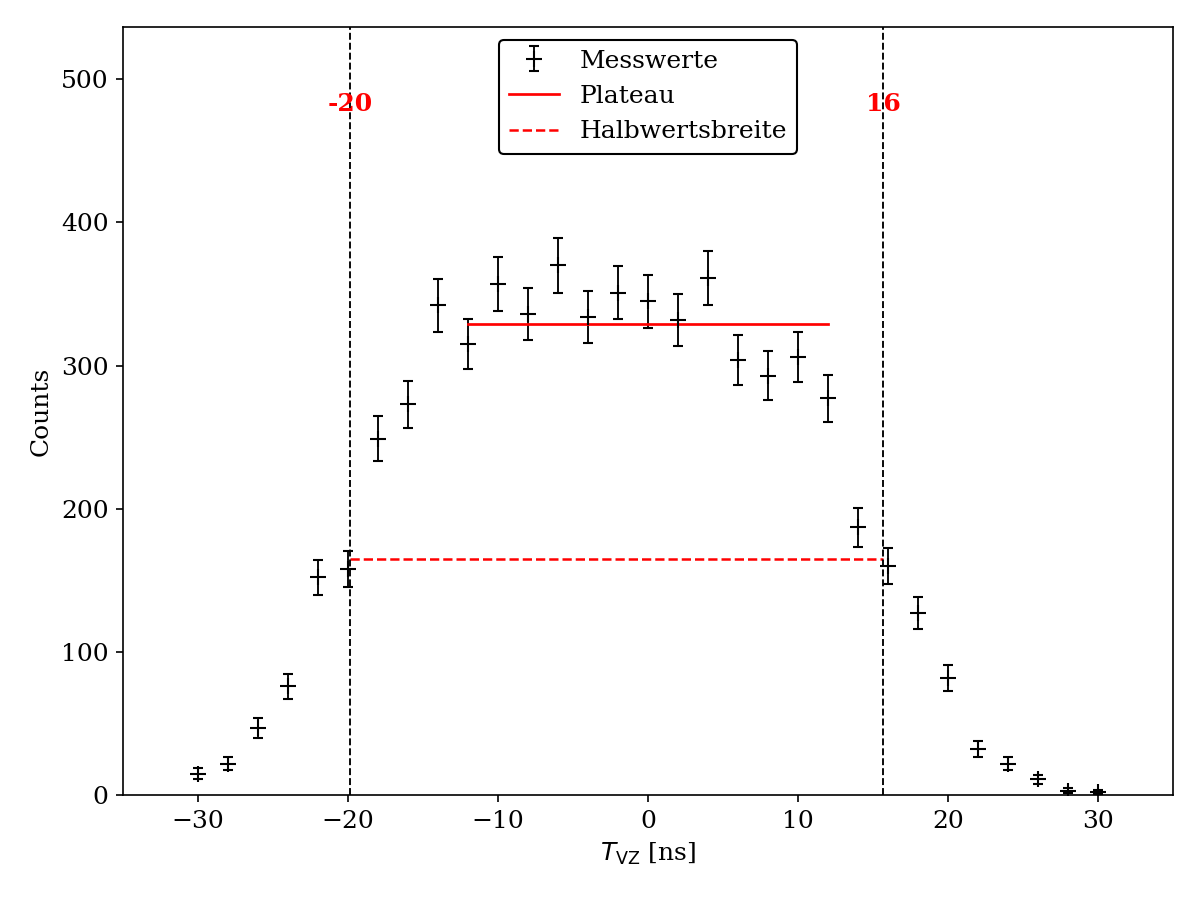
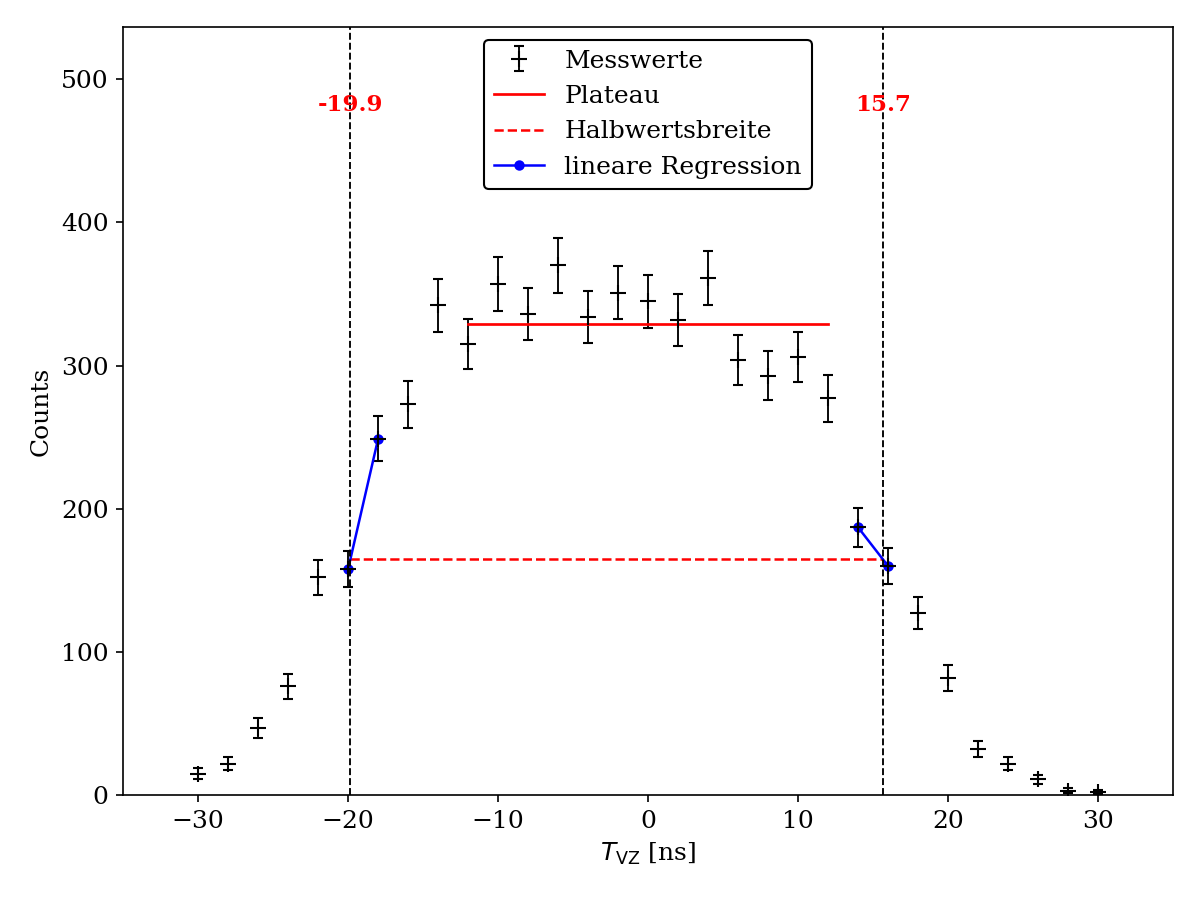
auswertung bissl

diff --git a/v01/delay.py b/v01/delay.py
@@ -4,23 +4,28 @@
 Auswertung und Plot der Verzoegerungs-Koinzidenzmessung (delay.csv).
 
 Rekonstruiert aus den Spalten "Count left" / "Count right" die symmetrische
-T_VZ-Kurve, bestimmt das Plateau (Mittelwert des flachen Bereichs) und die
-Halbwertsbreite (FWHM) ueber die Halb-Maximum-Schnittpunkte und stellt das
-Ganze im Stil der Vorlage dar.
+T_VZ-Kurve und bestimmt das Plateau (Mittelwert des flachen Bereichs).
+Die Halbwertsbreite wird ueber eine Gerade durch die ZWEI das Halb-Maximum
+einrahmenden Punkte bestimmt (einer knapp darunter, einer knapp darueber).
+Der Schnittpunkt dieser Geraden mit der Halb-Maximum-Linie liefert die linke
+bzw. rechte Flankenzeit; die Unsicherheit folgt aus den Poisson-Fehlern der
+beiden Counts.
 """
+import os
 import uncertainties.unumpy as unp
 import numpy as np
 import pandas as pd
 from scipy.optimize import curve_fit
 from addons import write, add, latex_float, tab_to_latex as tab2tex
 from scipy.stats import linregress
-from uncertainties import ufloat
+from uncertainties import ufloat, correlated_values
 from uncertainties.unumpy import nominal_values as noms, std_devs as stds
 import scipy.constants as const
 import matplotlib.pyplot as plt
 
 dir     = "content/plots/"
 dir_tab = "content/tables/"
+os.makedirs(dir, exist_ok=True)
 
 # ----------------------------------------------------------------------
 # EINSTELLUNGEN
@@ -28,7 +33,7 @@ dir_tab = "content/tables/"
 CSV_PFAD        = "raw/delay.csv"
 OUTPUT_PNG      = dir + "delay_plot.png"
 PLATEAU_FENSTER = 12      # |T_VZ| <= dieser Wert [ns] bildet das Plateau
-TAU_REF         = 20.0    # Referenzzeit fuer Delta t_K = 2*TAU_REF - FWHM  [ns]
+TAU_REF         = 20.0    # Pulsbreite; Aufloesung = |2*TAU_REF - FWHM|  [ns]
 
 
 # ----------------------------------------------------------------------
@@ -39,7 +44,6 @@ dt    = df["Delta t[ns]"].to_numpy(dtype=float)
 left  = df["Count left (in 20s)"].to_numpy(dtype=float)
 right = df["Count right (in 20s)"].to_numpy(dtype=float)
 
-# left -> negative Achse, right -> positive Achse, Delta t = 0 -> T_VZ = 0
 t_neg, c_neg = -dt[dt > 0], left[dt > 0]
 t_pos, c_pos =  dt[dt > 0], right[dt > 0]
 t_zero       = np.array([0.0])
@@ -57,40 +61,64 @@ c_err = np.sqrt(c)
 
 
 # ----------------------------------------------------------------------
-# PLATEAU UND HALBWERTSBREITE
+# PLATEAU (mit Unsicherheit)  ->  Halb-Maximum
 # ----------------------------------------------------------------------
 plateau_mask = np.abs(t) <= PLATEAU_FENSTER
 plateau      = c[plateau_mask].mean()
 plateau_err  = c[plateau_mask].std(ddof=1) / np.sqrt(plateau_mask.sum())
 plateau_u    = ufloat(plateau, plateau_err)
-half_max     = plateau / 2.0
+half_max_u   = plateau_u / 2
+half_max     = half_max_u.n
 
 
-def schnittpunkt(t_arr, c_arr, level, seite):
-    """Lineare Interpolation des Durchgangs durch 'level'."""
-    idx = np.where(t_arr < 0)[0] if seite == "links" else np.where(t_arr > 0)[0]
-    ti, ci = t_arr[idx], c_arr[idx]
+# ----------------------------------------------------------------------
+# FLANKEN: Gerade durch die zwei das Halb-Maximum einrahmenden Punkte
+# ----------------------------------------------------------------------
+def flanken_fit(seite):
+    """Gerade durch die zwei benachbarten Punkte, die half_max einrahmen.
+    Rueckgabe: (t_cross [ufloat], coeffs [m, b], t_used)."""
+    msk = (t < 0) if seite == "links" else (t > 0)
+    ti, ci = t[msk], c[msk]
     o = np.argsort(ti)
     ti, ci = ti[o], ci[o]
-    for k in range(len(ti) - 1):
-        a_, b_ = ci[k], ci[k + 1]
-        if (a_ - level) * (b_ - level) <= 0 and a_ != b_:
-            frac = (level - a_) / (b_ - a_)
-            return ti[k] + frac * (ti[k + 1] - ti[k])
-    return np.nan
+
+    # erstes benachbartes Paar, das das Halb-Maximum kreuzt
+    k = None
+    for j in range(len(ti) - 1):
+        if (ci[j] - half_max) * (ci[j + 1] - half_max) <= 0 and ci[j] != ci[j + 1]:
+            k = j
+            break
+    if k is None:
+        raise ValueError(f"Keine Flanke gefunden ({seite}): Halb-Maximum nicht gekreuzt.")
+
+    # die zwei Punkte mit Poisson-Fehler sqrt(N)
+    t_lo, t_hi = ti[k], ti[k + 1]
+    c_lo = ufloat(ci[k],     np.sqrt(ci[k]))
+    c_hi = ufloat(ci[k + 1], np.sqrt(ci[k + 1]))
+
+    # Gerade durch zwei Punkte -> Schnittpunkt mit half_max
+    m_u = (c_hi - c_lo) / (t_hi - t_lo)
+    b_u = c_lo - m_u * t_lo
+    t_cross = (half_max_u - b_u) / m_u
+
+    coeffs = [m_u.n, b_u.n]                  # nur fuers Plotten
+    return t_cross, coeffs, np.array([t_lo, t_hi])
 
 
-t_links  = schnittpunkt(t, c, half_max, "links")
-t_rechts = schnittpunkt(t, c, half_max, "rechts")
-fwhm     = t_rechts - t_links
-dt_K     = 2 * TAU_REF - fwhm
+t_links_u,  coef_l, ti_l = flanken_fit("links")
+t_rechts_u, coef_r, ti_r = flanken_fit("rechts")
+
+fwhm_u = t_rechts_u - t_links_u
+dt_K_u = 2 * TAU_REF - fwhm_u
 
 print(f"Plateau         = {plateau_u} counts")
 print(f"Halb-Maximum    = {half_max:.1f} counts")
-print(f"Schnittpunkt L  = {t_links:.2f} ns")
-print(f"Schnittpunkt R  = {t_rechts:.2f} ns")
-print(f"Halbwertsbreite = {fwhm:.2f} ns")
-print(f"Delta t_K       = 2*{TAU_REF:.0f} ns - {fwhm:.1f} ns = {dt_K:.2f} ns")
+print(f"Punkte links    = {ti_l} ns")
+print(f"Punkte rechts   = {ti_r} ns")
+print(f"Schnittpunkt L  = {t_links_u} ns")
+print(f"Schnittpunkt R  = {t_rechts_u} ns")
+print(f"Halbwertsbreite = {fwhm_u} ns")
+print(f"Aufloesungszeit = |2*{TAU_REF:.0f} - FWHM| = {abs(dt_K_u.n):.2f} +/- {dt_K_u.s:.2f} ns")
 
 
 # ----------------------------------------------------------------------
@@ -106,13 +134,20 @@ t_plat = t[plateau_mask]
 ax.plot([t_plat.min(), t_plat.max()], [plateau, plateau],
         color="red", lw=1.3, label="Plateau")
 
-ax.plot([t_links, t_rechts], [half_max, half_max],
+ax.plot([t_links_u.n, t_rechts_u.n], [half_max, half_max],
         color="red", lw=1.2, ls="--", label="Halbwertsbreite")
 
-for tc in (t_links, t_rechts):
+# Flankengeraden: nur zwischen den zwei verwendeten Punkten
+for k, (ti_, coef_) in enumerate([(ti_l, coef_l), (ti_r, coef_r)]):
+    xx = np.array([ti_[0], ti_[1]])
+    ax.plot(xx, coef_[0] * xx + coef_[1], color="blue", lw=1.2,
+            marker="o", ms=4,
+            label="lineare Regression" if k == 0 else None)
+
+for tc in (t_links_u.n, t_rechts_u.n):
     ax.axvline(tc, color="black", lw=0.9, ls="--")
-    ax.annotate(f"{tc:.0f}", xy=(tc, plateau * 1.45),
-                color="red", ha="center", fontsize=12, fontweight="bold")
+    ax.annotate(f"{tc:.1f}", xy=(tc, plateau * 1.45),
+                color="red", ha="center", fontsize=11, fontweight="bold")
 
 ax.set_xlabel(r"$T_{\mathrm{VZ}}$ [ns]")
 ax.set_ylabel("Counts")
@@ -120,7 +155,7 @@ ax.set_xlim(t.min() - 5, t.max() + 5)
 ax.set_ylim(0, c.max() * 1.45)
 
 handles, labels = ax.get_legend_handles_labels()
-reihenfolge = ["Messwerte", "Plateau", "Halbwertsbreite"]
+reihenfolge = ["Messwerte", "Plateau", "Halbwertsbreite", "lineare Regression"]
 idx = [labels.index(l) for l in reihenfolge if l in labels]
 ax.legend([handles[i] for i in idx], [labels[i] for i in idx],
           loc="upper center", framealpha=1.0, edgecolor="black")

diff --git a/v01/lifetime.py b/v01/lifetime.py
@@ -8,8 +8,10 @@ registrierte Stoppimpulse), rechnet die Kanalnummer mit der Kalibrierung
 aus channel.py in eine Zeit um und fuehrt eine exponentielle
 Ausgleichsrechnung
     N(t) = N_0 * exp(-lambda * t) + U
-mit scipy.optimize.curve_fit durch. Plot im Stil der Vorlage (Abb. 4).
+mit scipy.optimize.curve_fit durch. Es werden ALLE Messwerte einbezogen.
+Plot im Stil der Vorlage (Abb. 4).
 """
+import os
 import uncertainties.unumpy as unp
 import numpy as np
 import datetime as dt
@@ -23,6 +25,7 @@ import matplotlib.pyplot as plt
 
 dir     = "content/plots/"
 dir_tab = "content/tables/"
+os.makedirs(dir, exist_ok=True)
 
 # ----------------------------------------------------------------------
 # EINSTELLUNGEN
@@ -33,7 +36,6 @@ OUTPUT_PNG = dir + "lifetime_plot.png"
 # Zeitkalibrierung aus channel.py:  Delta_t = CAL_A * Kanal + CAL_B
 CAL_A = 0.021685      # us / Kanal
 CAL_B = 0.155200      # us
-SKIP_FIRST = 0        # erste Kanaele nicht in den Fit einbeziehen
 
 
 # ----------------------------------------------------------------------
@@ -81,21 +83,13 @@ print("(N_start ist nicht in der Datei gespeichert -> Zaehleranzeige verwenden)\
 
 
 # ----------------------------------------------------------------------
-# MASKEN: einbezogene / nicht einbezogene Messwerte
-# ----------------------------------------------------------------------
-einbezogen = (kanal >= SKIP_FIRST) & (kanal <= letzter_kanal)
-ausgelassen = ~einbezogen
-
-
-# ----------------------------------------------------------------------
-# AUSGLEICHSRECHNUNG  N(t) = N0 * exp(-lambda t) + U
+# AUSGLEICHSRECHNUNG  N(t) = N0 * exp(-lambda t) + U   (alle Messwerte)
 # ----------------------------------------------------------------------
 def zerfall(t, N0, lam, U):
     return N0 * np.exp(-lam * t) + U
 
 p0 = [counts.max(), 0.46, 0.3]
-popt, pcov = curve_fit(zerfall, t_us[einbezogen], counts[einbezogen],
-                       p0=p0, maxfev=10000)
+popt, pcov = curve_fit(zerfall, t_us, counts, p0=p0, maxfev=10000)
 perr = np.sqrt(np.diag(pcov))
 
 N0_u  = ufloat(popt[0], perr[0])
@@ -103,7 +97,7 @@ lam_u = ufloat(popt[1], perr[1])
 U_u   = ufloat(popt[2], perr[2])
 tau_u = 1 / lam_u
 
-print("----- Ausgleichsrechnung -----")
+print("----- Ausgleichsrechnung (alle Kanaele) -----")
 print(f"N_0    = {N0_u}")
 print(f"lambda = {lam_u} 1/us")
 print(f"U      = {U_u}")
@@ -116,12 +110,9 @@ print(f"tau    = {tau_u} us")
 plt.rcParams.update({"font.size": 12, "font.family": "serif"})
 fig, ax = plt.subplots(figsize=(8, 5))
 
-ax.plot(t_us[einbezogen], counts[einbezogen], ".", color="red", ms=4,
-        label="Messwerte")
-ax.plot(t_us[ausgelassen], counts[ausgelassen], ".", color="blue", ms=4,
-        label="nicht einbezogene Messwerte")
+ax.plot(t_us, counts, ".", color="red", ms=4, label="Messwerte")
 
-t_fit = np.linspace(t_us[einbezogen].min(), t_us[einbezogen].max(), 500)
+t_fit = np.linspace(t_us.min(), t_us.max(), 500)
 ax.plot(t_fit, zerfall(t_fit, *popt), color="black", lw=1.0,
         label="Ausgleichsfunktion")
 

diff --git a/v01/content/auswertung.tex b/v01/content/auswertung.tex
@@ -25,12 +25,10 @@ Der Einfachheit halber wird hierbei das Python-Paket \textit{uncertainties} verw
 Hierbei wurde ein Eingangssignal mit einer Breite von $t = \qty{15}{\nano\second}$ verwendet.
 Die Messdauer betrug jeweils \qty{20}{\second}.
 Die Unsicherheit der Zählrate $N$ ergibt sich aus $\sqrt{N}$.
-Die Messwerte Werten in \autoref{tab:delay} aufgetragen.
+Die Messwerte werden in \autoref{tab:delay} aufgetragen.
 \begin{table}[H]
     \centering
-    \caption{Zählraten der Koinzidenz in Abhängigkeit der Verzögerungszeit $\Delta t$.
-    Negative $\Delta t$ entsprechen einer Verzögerung der linken, positive einer
-    Verzögerung der rechten Verzögerungsleitung.}
+    \caption{Zählraten der Koinzidenz in Abhängigkeit der Verzögerungszeit $\Delta t$.}
     \label{tab:delay}
     \begin{tabular}{S[table-format=-2.0] S[table-format=3.0] S[table-format=2.0] S[table-format=3.0]}
         \toprule
@@ -65,9 +63,9 @@ In \autoref{fig:delay} werden die Messdaten aufgetragen. Hierbei wird das Platea
 
 Mithilfe der Formel 
 \begin{equation*}
-    t_{\text{verzögerung}} = t_{\text{HWB}} - t_{\text{Plateau}}
+    t_{\text{Verzögerung}} = t_{\text{HWB}} - t_{\text{Plateau}}
 \end{equation*}
-folgt $t_{\text{verzögerung}} = \qty{5}{\nano\second}$. 
+folgt $t_{\text{Verzögerung}} = \qty{4.49(0.92)}{\nano\second}$. 
 \subsection{Bestimmung der Channelzuordnung}
 In der \autoref{tab:mca_kalibration} sind die Messwerte zur Bestimmung der Kanalzuordnung dargestellt. 
 Die Kanäle in denen mehrere Counts eingeganen sind, wurden mithilfe des gewichteten Mittelwertes berechnet.
@@ -126,25 +124,25 @@ Es wurden $N_{\text{gefüllt}}= 466$ Kanäle gefüllt.
     \caption{Lebenszeitverteilung der Myonen.}
     \label{fig:lebenszeit}
 \end{figure}
-Hierbei wurden die Kanäle von 20 bis 450 betrachtet, da die Kanäle unterhalb von 20 nicht gefüllt waren und die Kanäle oberhalb von 450 nur wenige Einträge hatten.
+Hierbei wurden alle Kanäle betrachtet.
 Mithilfe der exponenziellen Regression der Form
 \begin{equation*}
     N(t) = N_0 \exp \left( -{\lambda t} \right) + U
 \end{equation*} 
 folgt für die Parameter:
 \begin{align*}
-    N_0     &= \num{2.66(0.18)} \\
-    \lambda &= \qty{0.49(0.07)}{\per\micro\second} \\
-    U       &= \num{0.05(0.07)} \,.
+    N_0     &= \num{2.35(0.15)} \\
+    \lambda &= \qty{0.40(0.06)}{\per\micro\second} \\
+    U       &= -\num{0.01(0.07)} \,.
 \end{align*}
 Die Lebenszeit der Myonen berechnet sich über die Formel
 \begin{equation*}
     \tau = \frac{1}{\lambda},
 \end{equation*}
-woraus sich für die Lebenszeit der Myonen $\tau = \qty{2.04(0.28)}{\micro\second}$ ergibt.
+woraus sich für die Lebenszeit der Myonen $\tau = \qty{2.48(0.35)}{\micro\second}$ ergibt.
 
 \subsection{Bestimmung der Untergundrate}
-Zur Bestimmung der Untergundrate kann entweder die Methode verwendet werden, das $U$ aus dem exponenziellen Fit zu ziehen oder das $U$ kann rechnerisch bestimmt werden. Hierbei wird nur die zweite Methode verwendet, da das $U$ aus dem exponenziellen Fit wenig Aussagekraft hat, da der Fehler davon ziemlich groß ist.
+Zur Bestimmung der Untergundrate kann entweder die Methode verwendet werden, das $U$ aus dem exponenziellen Fit zu ziehen oder das $U$ kann rechnerisch bestimmt werden. Hierbei wird nur die zweite Methode verwendet, da das $U$ aus dem exponenziellen Fit wenig Aussagekraft hat, da der Fehler davon ziemlich groß ist und es des Weiteren negativ ist, was physikalisch keinen Sinn macht.
 Um das $U$ rechnerisch zu bestimmen wird zuerst die durchschnittliche Rate der Myonen mit
 \begin{equation*}
     N_{\text{Myon}} = \frac{N_{\text{Start}}}{t}